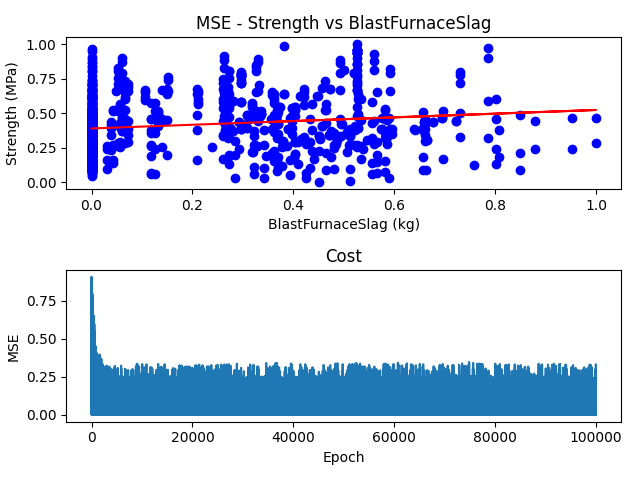
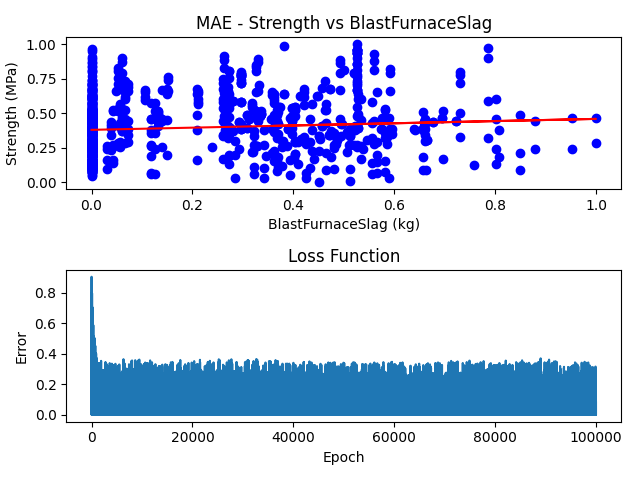
Add test data scaling

diff --git a/univariable.py b/univariable.py
@@ -10,8 +10,8 @@ from sklearn.metrics import (
 
 PROCESSING_TYPE = "SCALED"
 # PROCESSING_TYPE = "NORMAL"
-ALGO = "MSE"
-# ALGO = "MAE"
+# ALGO = "MSE"
+ALGO = "MAE"
 
 DONT_PROCESS = [
     # "Cement",
@@ -88,7 +88,7 @@ def main():
     trainSet.pop("index")
     testSet.pop("index")
 
-    # Scale data in-place
+    # Scale training data in-place
     if PROCESSING_TYPE == "SCALED":
         scaler = preprocessing.MinMaxScaler()
         trainSet[trainSet.columns] = scaler.fit_transform(trainSet[trainSet.columns])
@@ -111,6 +111,10 @@ def main():
             )
             obj.predict(trainSet_x, trainSet_y, "Train")
 
+            # Blindly apply same transform to testing data
+            if PROCESSING_TYPE == "SCALED":
+                testSet[testSet.columns] = scaler.transform(testSet[testSet.columns])
+
             # Predict test data
             testSet_x = testSet[columnName]
             testSet_y = testSet["Strength"]
@@ -125,13 +129,13 @@ class LinearRegression:
         self.featureName = featureName
         self.totalSamples = len(x)
         self.algo = algo
-        self.MSE_cost = {}  # Tracking variable
+        self.loss = {}  # Tracking variable
 
         # Calls
-        self.w, self.b = self.do_BGD(epochs, learnRate)
+        self.w, self.b = self.train_SGD_model(epochs, learnRate)
         self.saveCostPlot()
 
-    def do_BGD(self, epochs, learnRate):
+    def train_SGD_model(self, epochs, learnRate):
         # Initialization
         w = 0
         b = 0
@@ -143,11 +147,11 @@ class LinearRegression:
             # Calculate the hypothesis
             yPredicted = w * xSample + b
 
-            # Get cost (Mean Squared Error)
-            self.MSE_cost[_] = mean_squared_error(ySample, yPredicted)
+            # Get Loss (Mean Squared Error)
+            self.loss[_] = mean_squared_error(ySample, yPredicted)
 
             # Exit condition
-            if self.MSE_cost[_] < 1e-12:
+            if self.loss[_] < 1e-12:
                 break
 
             if self.algo == "MSE":
@@ -200,9 +204,9 @@ class LinearRegression:
         res = self.w * self.x + self.b
         ax.plot(self.x, res, "r")
         # Plot MSE
-        xCosts, yCosts = zip(*self.MSE_cost.items())
-        bx.set_title(f"Cost")
-        bx.set(xlabel="Epoch", ylabel="MSE")
+        xCosts, yCosts = zip(*self.loss.items())
+        bx.set_title(f"Loss Function")
+        bx.set(xlabel="Epoch", ylabel="Error")
         bx.plot(xCosts, yCosts)
         plt.tight_layout()
         plt.savefig(f"./imgs/{self.featureName}")

diff --git a/multivariable.py b/multivariable.py
@@ -18,10 +18,10 @@ PROCESSING_TYPE = "SCALED"
 ALGO = "MAE"
 
 settings = {
-    "SCALED_MSE": [80000, 0.1],
-    "SCALED_MAE": [8000, 0.7],
+    "SCALED_MSE": [8000, 0.1],
+    "SCALED_MAE": [8000, 0.1],
     "NORMAL_MSE": [50000, 0.0001],
-    "NORMAL_MAE": [50000, 0.0009],
+    "NORMAL_MAE": [50000, 0.0001],
 }
 
 labels = [
@@ -53,7 +53,7 @@ def main():
     trainSet.pop("index")
     testSet.pop("index")
 
-    # Scale data in-place
+    # Scale the training data in-place
     if PROCESSING_TYPE == "SCALED":
         scaler = preprocessing.MinMaxScaler()
         trainSet[trainSet.columns] = scaler.fit_transform(trainSet[trainSet.columns])
@@ -66,6 +66,10 @@ def main():
     config = settings[f"{PROCESSING_TYPE}_{ALGO}"]
     obj = SGD(trainSet_x, trainSet_y, ALGO, config[0], config[1])
     obj.predict(trainSet_x, trainSet_y, "Train")
+
+    # Blindly apply the training "transform" to testing data
+    if PROCESSING_TYPE == "SCALED":
+        testSet[testSet.columns] = scaler.transform(testSet[testSet.columns])
 
     # Calculate with Test Data
     testSet_y = testSet["Strength"]
@@ -89,7 +93,7 @@ class SGD:
 
     def train_SGD_model(self, epochs, learnRate):
         # Track
-        MSE_cost = {}
+        loss = {}
 
         # Initialization. The "b" term is embedded into this array
         w = np.zeros(shape=(self.totalFeatures + 1))
@@ -107,10 +111,10 @@ class SGD:
             yPredicted = np.dot(w, xSample.T)
 
             # Calculate the Loss (Mean Squared Error)
-            MSE_cost[_] = mean_squared_error([ySample], [yPredicted])
+            loss[_] = mean_squared_error([ySample], [yPredicted])
 
             # Exit condition
-            if MSE_cost[_] < 1e-12:
+            if loss[_] < 1e-12:
                 break
 
             if self.algo == "MSE":
@@ -126,7 +130,7 @@ class SGD:
             # Update
             w = w - learnRate * wGrad
 
-        self.saveCostPlot(MSE_cost)
+        self.saveCostPlot(loss)
         return w
 
     """
@@ -137,7 +141,8 @@ class SGD:
     def saveCostPlot(self, valuesMap):
         xCosts, yCosts = zip(*valuesMap.items())
         plt.xlabel("Epoch")
-        plt.ylabel("MSE")
+        plt.ylabel("Error")
+        plt.title("Loss Function")
         plt.plot(xCosts, yCosts)
         plt.savefig(f"./imgs/{PROCESSING_TYPE}_{ALGO}_multi")
 
